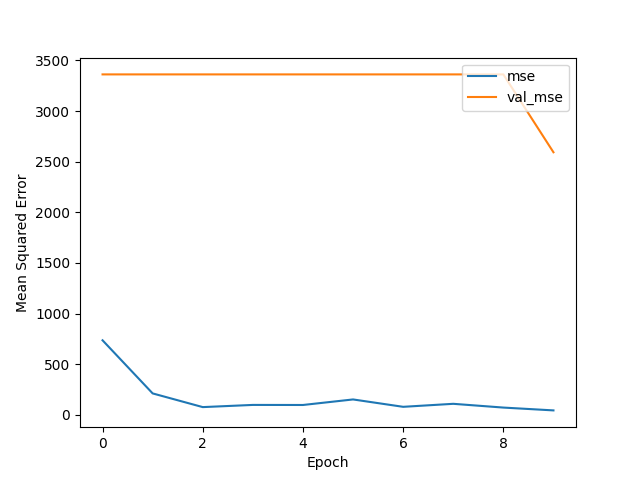
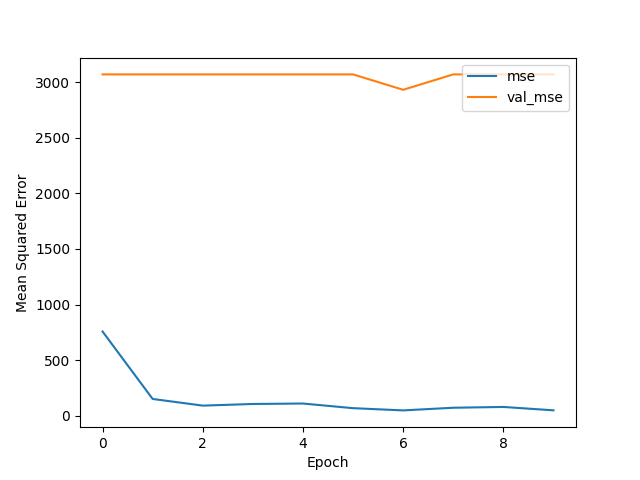
finished (need to fix graph)

diff --git a/cell_counter/resnet.py b/cell_counter/resnet.py
@@ -324,7 +324,7 @@ if __name__ == "__main__":
         model, epochs=10, image_number=250, path='C:\\Users\\User\\Documents\\BBC005Data\\BBBC005_v1_images\\',validation_split=0.1, checkpointing=False
     )
     '''
-    
+    path='C:\\Users\\User\\Documents\\BBC005Data\\BBBC005_v1_images\\'
     print('~~~~~~~~~~~~~~~~~~~~~~~~~~~~~~~~~~~~~~~~~~~~~~~~~~~~~~~~~~~~~~~~~~~~~~~~~~~~~~~')
     print('High training size, no blur')
     model = resnet50()
@@ -348,7 +348,7 @@ if __name__ == "__main__":
     print('Low training size, random blur')
     model = resnet50()
     compile_resnet(model)
-    df = get_dataset_info()
+    df = get_dataset_info(path)
     df = df.sample(n=250, replace=False)
     training_hist, _ = run_resnet(
         model, epochs=10,path='C:\\Users\\User\\Documents\\BBC005Data\\BBBC005_v1_images\\', image_number=250, validation_split=0.1, checkpointing=False, df=df
@@ -359,7 +359,7 @@ if __name__ == "__main__":
     print('High training size, random blur')
     model = resnet50()
     compile_resnet(model)
-    df = get_dataset_info()
+    df = get_dataset_info(path)
     df = df.sample(n=1000, replace=False)
     training_hist, _ = run_resnet(
         model, epochs=10,path='C:\\Users\\User\\Documents\\BBC005Data\\BBBC005_v1_images\\', image_number=1000, validation_split=0.1, checkpointing=False, df=df
